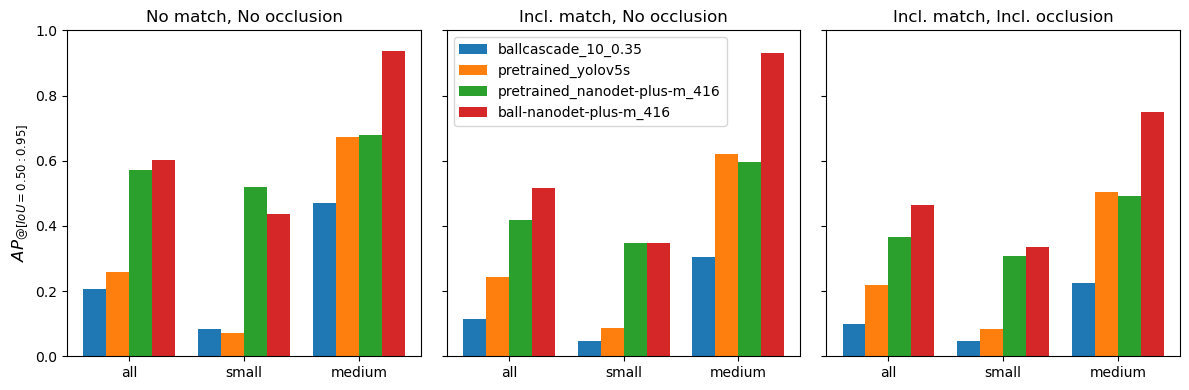
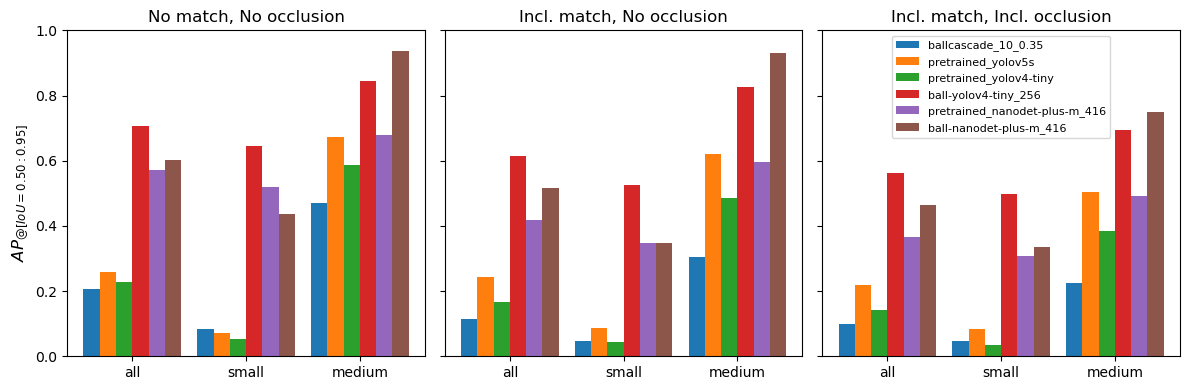
Add yoloyv4tiny

Changed region(s): [[0.0622, 0.0923, 0.9958, 0.9846], [0.7468, 0.0308, 0.9336, 0.0615], [0.1245, 0.0308, 0.3112, 0.0615]]

diff --git a/researchreport.tex b/researchreport.tex
@@ -856,7 +856,29 @@ Tiny \citep{scaledyolov4}
 
 \subsubsection{Software environment}
 
-\subsubsection{Hyper parameter selection}
+asdads
+
+\subsubsection{Model training}
+
+yolov4tiny train
+
+\begin{figure}[h!]
+\begin{center}
+\includegraphics[width=13cm]{images/yolov4tiny_train.png}
+\caption{NanoDet training curves}
+\label{fig:nanodet_train}
+\end{center}
+\end{figure}
+
+yolov4tiny train
+
+\begin{figure}[h!]
+\begin{center}
+\includegraphics[width=10cm]{images/yolov4tiny_compare.png}
+\caption{NanoDet variations compared}
+\label{fig:nanodet_compare}
+\end{center}
+\end{figure}
 
 \newpage
 \section{Proposed detection}
